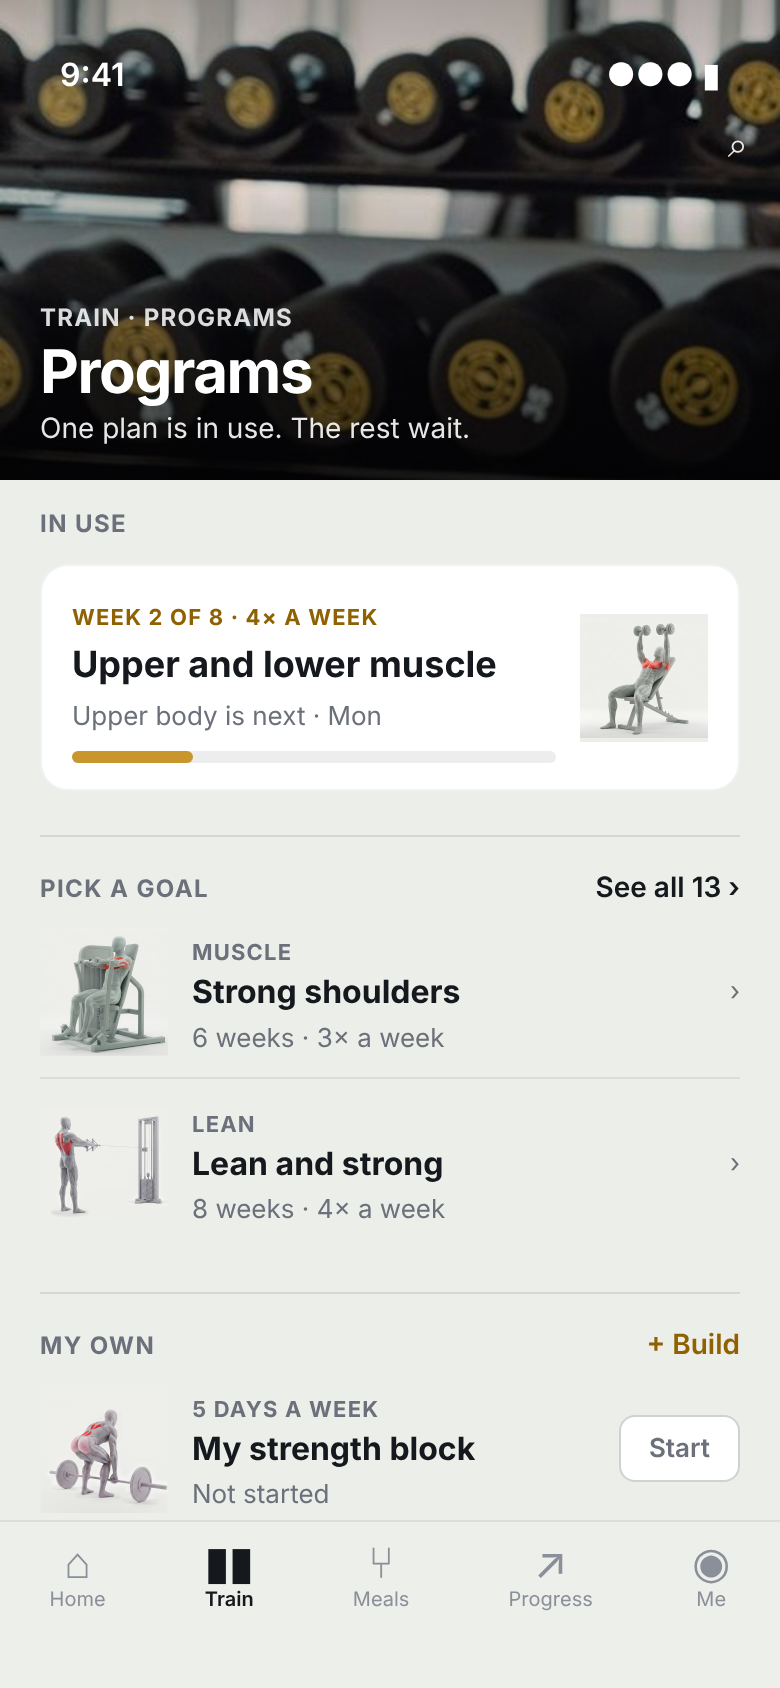
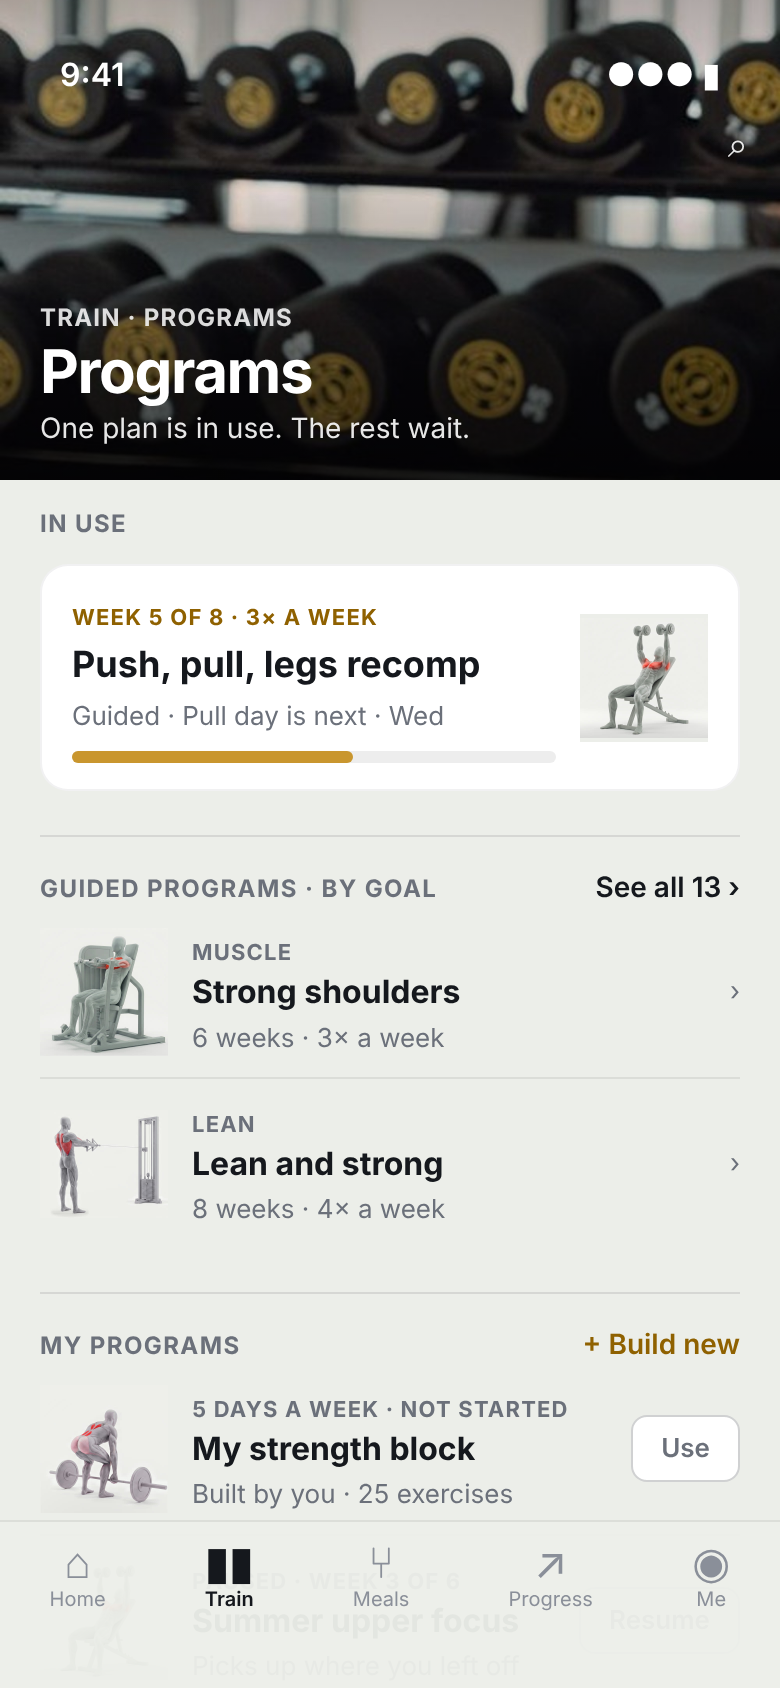
Programs: separate guided and my programs, with pause and resume switching
Claude-Session: https://claude.ai/code/session_01JN8HRfXHAzwszwnq8yH2na

diff --git a/docs/twoplates-design/html/38-programs.html b/docs/twoplates-design/html/38-programs.html
@@ -35,7 +35,7 @@ h1{font-size:32px;letter-spacing:-.8px;margin:2px 20px 0;line-height:1.1}
 .B div{background:#fff;border:1px solid rgba(21,24,29,.14)}
 .grid{display:grid;grid-template-columns:1fr 1fr;gap:8px;margin:10px 20px 0}
 .tile{background:#fff;border-radius:12px;padding:12px 14px}.tile small{font-size:12px;color:#6B707A;font-weight:600}.tile b{display:block;font-size:22px;margin-top:4px;letter-spacing:-.4px}.tile span{font-size:12px;color:#6B707A}
-.bar{height:4px;border-radius:2px;background:rgba(21,24,29,.08);margin-top:6px}.bar i{display:block;height:100%;width:25%;background:#2F7A4C;border-radius:2px}
+.bar{height:4px;border-radius:2px;background:rgba(21,24,29,.08);margin-top:6px}.bar i{display:block;height:100%;width:58%;background:#2F7A4C;border-radius:2px}
 .av{width:32px;height:32px;border-radius:16px;background:#C9A24A;color:#fff;font-weight:700;display:grid;place-items:center;font-size:13px;flex:none}
 
 .ph{position:relative;height:240px;margin-top:-54px;background-size:cover;background-position:center;overflow:hidden}
@@ -52,7 +52,7 @@ h1{font-size:32px;letter-spacing:-.8px;margin:2px 20px 0;line-height:1.1}
 .sec span{font-size:12px;font-weight:700;letter-spacing:.7px;color:#6B707A}.sec a{font-size:14px;font-weight:600;color:#15181D;text-decoration:none}
 .use{margin:12px 20px 0;background:#fff;border-radius:14px;padding:14px 16px;display:flex;gap:12px;align-items:center;box-shadow:inset 0 0 0 1px rgba(21,24,29,.06)}
 .use .t{flex:1}.use small{font-size:11px;font-weight:700;letter-spacing:.6px;color:#8F6100}.use b{display:block;font-size:18px;margin:2px 0}.use span{font-size:13px;color:#6B707A}
-.pb{height:6px;border-radius:3px;background:rgba(21,24,29,.08);margin-top:8px}.pb i{display:block;height:100%;width:25%;border-radius:3px;background:#C9962E}
+.pb{height:6px;border-radius:3px;background:rgba(21,24,29,.08);margin-top:8px}.pb i{display:block;height:100%;width:58%;border-radius:3px;background:#C9962E}
 .use img,.pr img{width:64px;height:64px;object-fit:cover;flex:none}
 .pr{display:flex;gap:12px;align-items:center;margin:0 20px;padding:10px 0;border-bottom:1px solid rgba(21,24,29,.08)}
 .pr .t{flex:1}.pr small{font-size:11px;font-weight:700;letter-spacing:.6px;color:#6B707A}.pr b{display:block;font-size:16px}.pr span{font-size:13px;color:#6B707A}
@@ -60,10 +60,12 @@ h1{font-size:32px;letter-spacing:-.8px;margin:2px 20px 0;line-height:1.1}
 </style><div class="sb sbw"><span>9:41</span><span>●●● ▮</span></div>
 <div class=ph style="background-image:url(hdr-progress.jpg)"><span class=menu style="font-size:18px">⌕</span><div class=tx><small>TRAIN · PROGRAMS</small><b>Programs</b><span>One plan is in use. The rest wait.</span></div></div>
 <div class=sec style="border:0;margin-top:14px;padding-top:0"><span>IN USE</span></div>
-<div class=use><div class=t><small>WEEK 2 OF 8 · 4× A WEEK</small><b>Upper and lower muscle</b><span>Upper body is next · Mon</span><div class=pb><i></i></div></div><img src="dumbbell-incline-bench-press.jpg"></div>
-<div class=sec><span>PICK A GOAL</span><a>See all 13 ›</a></div>
+<div class=use><div class=t><small>WEEK 5 OF 8 · 3× A WEEK</small><b>Push, pull, legs recomp</b><span>Guided · Pull day is next · Wed</span><div class=pb><i></i></div></div><img src="dumbbell-incline-bench-press.jpg"></div>
+<div class=sec><span>GUIDED PROGRAMS · BY GOAL</span><a>See all 13 ›</a></div>
 <div class=pr style=""><img src="machine-chest-press.jpg"><div class=t><small>MUSCLE</small><b>Strong shoulders</b><span>6 weeks · 3× a week</span></div><span class=chev>›</span></div>
 <div class=pr style="border:0"><img src="cable-row-bar-standing-row.jpg"><div class=t><small>LEAN</small><b>Lean and strong</b><span>8 weeks · 4× a week</span></div><span class=chev>›</span></div>
-<div class=sec><span>MY OWN</span><a style="color:#8F6100">+ Build</a></div>
-<div class=pr style="border:0"><img src="barbell-deadlift.jpg"><div class=t><small>5 DAYS A WEEK</small><b>My strength block</b><span>Not started</span></div><span class=go>Start</span></div>
+<div class=sec><span>MY PROGRAMS</span><a style="color:#8F6100">+ Build new</a></div>
+<div class=pr><img src="barbell-deadlift.jpg"><div class=t><small>5 DAYS A WEEK · NOT STARTED</small><b>My strength block</b><span>Built by you · 25 exercises</span></div><span class=go>Use</span></div>
+<div class=pr style="border:0"><img src="dumbbell-incline-bench-press.jpg"><div class=t><small>PAUSED · WEEK 3 OF 6</small><b>Summer upper focus</b><span>Picks up where you left off</span></div><span class=go>Resume</span></div>
+<div class=meta style="margin:10px 20px 0;font-size:12px">Switching pauses the current program; you can come back to it any time.</div>
 <div class=tab><div class=""><i>⌂</i>Home</div><div class="on"><i>▮▮</i>Train</div><div class=""><i>⑂</i>Meals</div><div class=""><i>↗</i>Progress</div><div class=""><i>◉</i>Me</div></div>

diff --git a/docs/twoplates-design/PROMPT-QUEUE.md b/docs/twoplates-design/PROMPT-QUEUE.md
@@ -93,15 +93,15 @@ One item: when the tab bar minimizes to its pill on scroll, the pill (bottom lef
 One item only. Work in this chat, no helper agents. Run only this area's tests, commit, back up. Don't install on my iPhone. STOP and report.
 ```
 
-## ☐ 8 · Programs page: sections and separation
+## ☐ 8 · Programs page: guided vs my programs, easy switching
 ```
-One item: Train › Programs looks flat. git pull in ~/TwoPlatesTools/design-drop and follow mockup 38-programs:
-- Photo header as on Pick a goal (if not already in the build).
-- Sections IN USE, PICK A GOAL (See all ›), MY OWN (+ Build) separated by a hairline with 16 pt space above each label.
-- In use: one white tile (12 pt radius) with week line in gold, name, "next" line, a gold progress bar and the day's illustration on the right, not overlapping text.
-- Pick a goal and My own: plain rows with a 64 pt equipment picture on the left, small caps category, name, weeks · days; chevron, or a "Start" outline button for an unstarted own program. Pictures never overlap the text.
-- "+ Build my own program" moves into the MY OWN section label as "+ Build".
-Snapshot test Light and Dark.
+One item: Train › Programs. git pull in ~/TwoPlatesTools/design-drop and follow mockup 38-programs (updated 26 Nov).
+1. Layout: photo header (as Pick a goal); sections IN USE, GUIDED PROGRAMS · BY GOAL (See all ›), MY PROGRAMS (+ Build new), each separated by a hairline with 16 pt space above the label.
+2. In use: one white tile (12 pt radius): week line in gold, name, "Guided" or "Built by you" · next day, gold progress bar, the day's illustration on the right never overlapping text.
+3. Guided programs: plain rows, 64 pt equipment picture, small caps category, name, weeks · days a week, chevron to its detail page (which has "Use this program").
+4. My programs: plain rows for every program the person built or imported, with state (Not started / Paused · week N of M), a "Use" or "Resume" outline button.
+5. Switching (guided ↔ own, either way): confirm sheet "Switch to <name>? <current> pauses at week N; you can resume it any time." The paused program keeps its week, logged sessions and progression; Resume continues where it stopped. Only one program is in use at a time. Logged history is never touched by switching.
+Unit tests for pause/resume keeping week and progression; UI test switching guided → own → back to guided resumes at the same week.
 One item only. Work in this chat, no helper agents. Run only this area's tests, commit, back up. Don't install on my iPhone. STOP and report.
 ```
 
